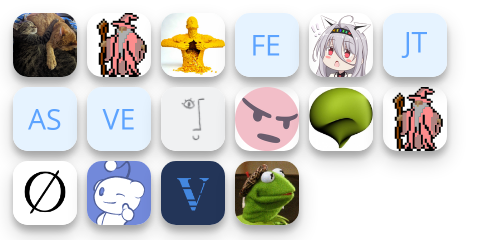
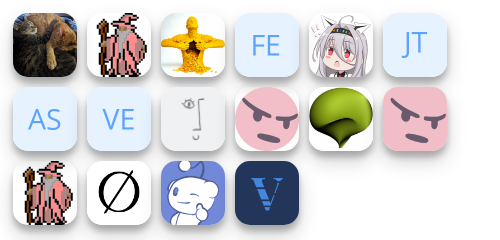
Sponsor Update

Changed region(s): [[0.03, 0.6708, 0.6, 0.9625], [0.75, 0.35, 0.9, 0.6417]]

diff --git a/sponsors.html b/sponsors.html
@@ -1,7 +1,7 @@
 <html lang="en" style="height: 240px;width: 500px">
     <body>
     <ul style="margin: 0;padding: 0;list-style: none;">
-        <li style="display: inline"><img src='https://images.opencollective.com/kyle-wood/57ef452/avatar.png' alt='Kyle Wood' title='Kyle Wood' onerror='this.src="https://opencollective.com/static/images/default-guest-logo.svg"' style="height: 64px;width: 64px;margin: 5px;border-radius: 15px;box-shadow: 0 10px 20px rgba(0,0,0,0.19), 0 6px 6px rgba(0,0,0,0.23);"/></li><li style="display: inline"><img src='https://images.opencollective.com/notmyfault/8026388/avatar.png' alt='NotMyFault' title='NotMyFault' onerror='this.src="https://opencollective.com/static/images/default-guest-logo.svg"' style="height: 64px;width: 64px;margin: 5px;border-radius: 15px;box-shadow: 0 10px 20px rgba(0,0,0,0.19), 0 6px 6px rgba(0,0,0,0.23);"/></li><li style="display: inline"><img src='https://images.opencollective.com/minidigger/d330b74/avatar.png' alt='MiniDigger | Martin' title='MiniDigger | Martin' onerror='this.src="https://opencollective.com/static/images/default-guest-logo.svg"' style="height: 64px;width: 64px;margin: 5px;border-radius: 15px;box-shadow: 0 10px 20px rgba(0,0,0,0.19), 0 6px 6px rgba(0,0,0,0.23);"/></li><li style="display: inline"><img src='https://images.opencollective.com/guest-75cfb38d/avatar.png' alt='fergydanny' title='fergydanny' onerror='this.src="https://opencollective.com/static/images/default-guest-logo.svg"' style="height: 64px;width: 64px;margin: 5px;border-radius: 15px;box-shadow: 0 10px 20px rgba(0,0,0,0.19), 0 6px 6px rgba(0,0,0,0.23);"/></li><li style="display: inline"><img src='https://images.opencollective.com/paper-chan/21d649c/avatar.png' alt='Paper Chan' title='Paper Chan' onerror='this.src="https://opencollective.com/static/images/default-guest-logo.svg"' style="height: 64px;width: 64px;margin: 5px;border-radius: 15px;box-shadow: 0 10px 20px rgba(0,0,0,0.19), 0 6px 6px rgba(0,0,0,0.23);"/></li><li style="display: inline"><img src='https://images.opencollective.com/josh-taylor/avatar.png' alt='Josh Taylor' title='Josh Taylor' onerror='this.src="https://opencollective.com/static/images/default-guest-logo.svg"' style="height: 64px;width: 64px;margin: 5px;border-radius: 15px;box-shadow: 0 10px 20px rgba(0,0,0,0.19), 0 6px 6px rgba(0,0,0,0.23);"/></li><li style="display: inline"><img src='https://images.opencollective.com/andrew-steinborn/avatar.png' alt='Andrew Steinborn' title='Andrew Steinborn' onerror='this.src="https://opencollective.com/static/images/default-guest-logo.svg"' style="height: 64px;width: 64px;margin: 5px;border-radius: 15px;box-shadow: 0 10px 20px rgba(0,0,0,0.19), 0 6px 6px rgba(0,0,0,0.23);"/></li><li style="display: inline"><img src='https://images.opencollective.com/guest-2a86fc3c/avatar.png' alt='Velnias75' title='Velnias75' onerror='this.src="https://opencollective.com/static/images/default-guest-logo.svg"' style="height: 64px;width: 64px;margin: 5px;border-radius: 15px;box-shadow: 0 10px 20px rgba(0,0,0,0.19), 0 6px 6px rgba(0,0,0,0.23);"/></li><li style="display: inline"><img src='https://images.opencollective.com/guest-cff6bbb4/avatar.png' alt='Guest' title='Guest' onerror='this.src="https://opencollective.com/static/images/default-guest-logo.svg"' style="height: 64px;width: 64px;margin: 5px;border-radius: 15px;box-shadow: 0 10px 20px rgba(0,0,0,0.19), 0 6px 6px rgba(0,0,0,0.23);"/></li><li style="display: inline"><img src='https://images.opencollective.com/sweepy/48b009d/avatar.png' alt='Sweepy' title='Sweepy' onerror='this.src="https://opencollective.com/static/images/default-guest-logo.svg"' style="height: 64px;width: 64px;margin: 5px;border-radius: 15px;box-shadow: 0 10px 20px rgba(0,0,0,0.19), 0 6px 6px rgba(0,0,0,0.23);"/></li><li style="display: inline"><img src='https://avatars.githubusercontent.com/u/181668?v=4' alt='mbax' title='mbax' onerror='this.src="https://opencollective.com/static/images/default-guest-logo.svg"' style="height: 64px;width: 64px;margin: 5px;border-radius: 15px;box-shadow: 0 10px 20px rgba(0,0,0,0.19), 0 6px 6px rgba(0,0,0,0.23);"/></li><li style="display: inline"><img src='https://avatars.githubusercontent.com/u/13383509?u=e63ee84568c653c545bf9cb025d6910f24723ed3' alt='NotMyFault' title='NotMyFault' onerror='this.src="https://opencollective.com/static/images/default-guest-logo.svg"' style="height: 64px;width: 64px;margin: 5px;border-radius: 15px;box-shadow: 0 10px 20px rgba(0,0,0,0.19), 0 6px 6px rgba(0,0,0,0.23);"/></li><li style="display: inline"><img src='https://avatars.githubusercontent.com/u/13875753?u=6e3a6da4e2af646471f846dc618c251b00b58d9c' alt='LMBishop' title='LMBishop' onerror='this.src="https://opencollective.com/static/images/default-guest-logo.svg"' style="height: 64px;width: 64px;margin: 5px;border-radius: 15px;box-shadow: 0 10px 20px rgba(0,0,0,0.19), 0 6px 6px rgba(0,0,0,0.23);"/></li><li style="display: inline"><img src='https://avatars.githubusercontent.com/u/44026893?u=1aa282d38edd1262d618ee4ec268cbf1c922f5b9' alt='NoahvdAa' title='NoahvdAa' onerror='this.src="https://opencollective.com/static/images/default-guest-logo.svg"' style="height: 64px;width: 64px;margin: 5px;border-radius: 15px;box-shadow: 0 10px 20px rgba(0,0,0,0.19), 0 6px 6px rgba(0,0,0,0.23);"/></li><li style="display: inline"><img src='https://avatars.githubusercontent.com/u/60553050?u=c35dc5606c9fb2471479c74750f8664cb28b4c73' alt='VQ9' title='VQ9' onerror='this.src="https://opencollective.com/static/images/default-guest-logo.svg"' style="height: 64px;width: 64px;margin: 5px;border-radius: 15px;box-shadow: 0 10px 20px rgba(0,0,0,0.19), 0 6px 6px rgba(0,0,0,0.23);"/></li><li style="display: inline"><img src='https://avatars.githubusercontent.com/u/76139600?u=0bb341b30a36a575ad2b4b68b9720529ecc14e9f' alt='sulu5890' title='sulu5890' onerror='this.src="https://opencollective.com/static/images/default-guest-logo.svg"' style="height: 64px;width: 64px;margin: 5px;border-radius: 15px;box-shadow: 0 10px 20px rgba(0,0,0,0.19), 0 6px 6px rgba(0,0,0,0.23);"/></li>
+        <li style="display: inline"><img src='https://images.opencollective.com/kyle-wood/57ef452/avatar.png' alt='Kyle Wood' title='Kyle Wood' onerror='this.src="https://opencollective.com/static/images/default-guest-logo.svg"' style="height: 64px;width: 64px;margin: 5px;border-radius: 15px;box-shadow: 0 10px 20px rgba(0,0,0,0.19), 0 6px 6px rgba(0,0,0,0.23);"/></li><li style="display: inline"><img src='https://images.opencollective.com/notmyfault/8026388/avatar.png' alt='NotMyFault' title='NotMyFault' onerror='this.src="https://opencollective.com/static/images/default-guest-logo.svg"' style="height: 64px;width: 64px;margin: 5px;border-radius: 15px;box-shadow: 0 10px 20px rgba(0,0,0,0.19), 0 6px 6px rgba(0,0,0,0.23);"/></li><li style="display: inline"><img src='https://images.opencollective.com/minidigger/d330b74/avatar.png' alt='MiniDigger | Martin' title='MiniDigger | Martin' onerror='this.src="https://opencollective.com/static/images/default-guest-logo.svg"' style="height: 64px;width: 64px;margin: 5px;border-radius: 15px;box-shadow: 0 10px 20px rgba(0,0,0,0.19), 0 6px 6px rgba(0,0,0,0.23);"/></li><li style="display: inline"><img src='https://images.opencollective.com/guest-75cfb38d/avatar.png' alt='fergydanny' title='fergydanny' onerror='this.src="https://opencollective.com/static/images/default-guest-logo.svg"' style="height: 64px;width: 64px;margin: 5px;border-radius: 15px;box-shadow: 0 10px 20px rgba(0,0,0,0.19), 0 6px 6px rgba(0,0,0,0.23);"/></li><li style="display: inline"><img src='https://images.opencollective.com/paper-chan/21d649c/avatar.png' alt='Paper Chan' title='Paper Chan' onerror='this.src="https://opencollective.com/static/images/default-guest-logo.svg"' style="height: 64px;width: 64px;margin: 5px;border-radius: 15px;box-shadow: 0 10px 20px rgba(0,0,0,0.19), 0 6px 6px rgba(0,0,0,0.23);"/></li><li style="display: inline"><img src='https://images.opencollective.com/josh-taylor/avatar.png' alt='Josh Taylor' title='Josh Taylor' onerror='this.src="https://opencollective.com/static/images/default-guest-logo.svg"' style="height: 64px;width: 64px;margin: 5px;border-radius: 15px;box-shadow: 0 10px 20px rgba(0,0,0,0.19), 0 6px 6px rgba(0,0,0,0.23);"/></li><li style="display: inline"><img src='https://images.opencollective.com/andrew-steinborn/avatar.png' alt='Andrew Steinborn' title='Andrew Steinborn' onerror='this.src="https://opencollective.com/static/images/default-guest-logo.svg"' style="height: 64px;width: 64px;margin: 5px;border-radius: 15px;box-shadow: 0 10px 20px rgba(0,0,0,0.19), 0 6px 6px rgba(0,0,0,0.23);"/></li><li style="display: inline"><img src='https://images.opencollective.com/guest-2a86fc3c/avatar.png' alt='Velnias75' title='Velnias75' onerror='this.src="https://opencollective.com/static/images/default-guest-logo.svg"' style="height: 64px;width: 64px;margin: 5px;border-radius: 15px;box-shadow: 0 10px 20px rgba(0,0,0,0.19), 0 6px 6px rgba(0,0,0,0.23);"/></li><li style="display: inline"><img src='https://images.opencollective.com/guest-cff6bbb4/avatar.png' alt='Guest' title='Guest' onerror='this.src="https://opencollective.com/static/images/default-guest-logo.svg"' style="height: 64px;width: 64px;margin: 5px;border-radius: 15px;box-shadow: 0 10px 20px rgba(0,0,0,0.19), 0 6px 6px rgba(0,0,0,0.23);"/></li><li style="display: inline"><img src='https://images.opencollective.com/sweepy/48b009d/avatar.png' alt='Sweepy' title='Sweepy' onerror='this.src="https://opencollective.com/static/images/default-guest-logo.svg"' style="height: 64px;width: 64px;margin: 5px;border-radius: 15px;box-shadow: 0 10px 20px rgba(0,0,0,0.19), 0 6px 6px rgba(0,0,0,0.23);"/></li><li style="display: inline"><img src='https://avatars.githubusercontent.com/u/181668?v=4' alt='mbax' title='mbax' onerror='this.src="https://opencollective.com/static/images/default-guest-logo.svg"' style="height: 64px;width: 64px;margin: 5px;border-radius: 15px;box-shadow: 0 10px 20px rgba(0,0,0,0.19), 0 6px 6px rgba(0,0,0,0.23);"/></li><li style="display: inline"><img src='https://avatars.githubusercontent.com/u/7191851?v=4' alt='sweepyoface' title='sweepyoface' onerror='this.src="https://opencollective.com/static/images/default-guest-logo.svg"' style="height: 64px;width: 64px;margin: 5px;border-radius: 15px;box-shadow: 0 10px 20px rgba(0,0,0,0.19), 0 6px 6px rgba(0,0,0,0.23);"/></li><li style="display: inline"><img src='https://avatars.githubusercontent.com/u/13383509?u=e63ee84568c653c545bf9cb025d6910f24723ed3' alt='NotMyFault' title='NotMyFault' onerror='this.src="https://opencollective.com/static/images/default-guest-logo.svg"' style="height: 64px;width: 64px;margin: 5px;border-radius: 15px;box-shadow: 0 10px 20px rgba(0,0,0,0.19), 0 6px 6px rgba(0,0,0,0.23);"/></li><li style="display: inline"><img src='https://avatars.githubusercontent.com/u/13875753?u=6e3a6da4e2af646471f846dc618c251b00b58d9c' alt='LMBishop' title='LMBishop' onerror='this.src="https://opencollective.com/static/images/default-guest-logo.svg"' style="height: 64px;width: 64px;margin: 5px;border-radius: 15px;box-shadow: 0 10px 20px rgba(0,0,0,0.19), 0 6px 6px rgba(0,0,0,0.23);"/></li><li style="display: inline"><img src='https://avatars.githubusercontent.com/u/44026893?u=1aa282d38edd1262d618ee4ec268cbf1c922f5b9' alt='NoahvdAa' title='NoahvdAa' onerror='this.src="https://opencollective.com/static/images/default-guest-logo.svg"' style="height: 64px;width: 64px;margin: 5px;border-radius: 15px;box-shadow: 0 10px 20px rgba(0,0,0,0.19), 0 6px 6px rgba(0,0,0,0.23);"/></li><li style="display: inline"><img src='https://avatars.githubusercontent.com/u/60553050?u=c35dc5606c9fb2471479c74750f8664cb28b4c73' alt='VQ9' title='VQ9' onerror='this.src="https://opencollective.com/static/images/default-guest-logo.svg"' style="height: 64px;width: 64px;margin: 5px;border-radius: 15px;box-shadow: 0 10px 20px rgba(0,0,0,0.19), 0 6px 6px rgba(0,0,0,0.23);"/></li>
     </ul>
     </body>
     </html>
